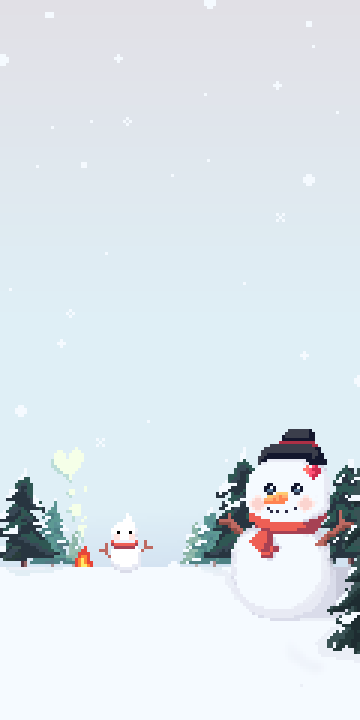
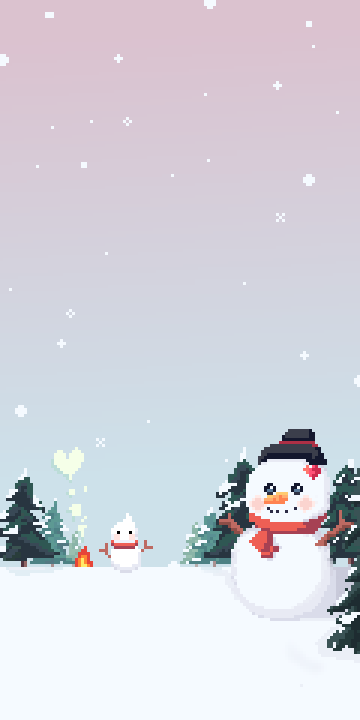
Feat: 노랑 테마(병아리) 추가
코드, 이미지 보지마세요 너무 많아용

보관함에서 테마변경하시고 잘 적용되었는지 돌아다녀주시면 됩니당
(홈, 일기장 목록, 일기장 상세 화면, 더보기 메뉴) 최소4장 찍어주세용

- 노랑 테마 적용을 위한 이미지 여러개 추가
- 일부 수정 필요한 이미지 수정
- 테마 적용되도록 일부 코드 수정

- 이전에 사용했던 일기장 틀이 있으면 슈파베이스 스토리url로 적용되고 / 없으면 현재 테마 일기장 틀이 사용됩니다
-  틀이 안보일 경우는 기존에 있던 아이템 캐시가 남아있어서 그런걸꺼라 꾸미기 단계에서 일가장 틀 바꿔주시면됩니당
- 모르겠음 부르세용

- 일기장 메뉴 4개로 변경 (삭제, 수정, 꾸미기 초기화) -> (삭제, 수정, 꾸미기 초기화, 공유)

diff --git a/frontend/src/components/layout/NavigationBar.jsx b/frontend/src/components/layout/NavigationBar.jsx
@@ -2,43 +2,44 @@ import { useNavigate, useLocation } from 'react-router-dom';
 // useNavigate: 버튼 클릭 시 페이지 이동할 때 사용하는 훅
 // useLocation: 현재 어떤 경로에 있는지 확인할 때 사용하는 훅
 // 훅 (Hook): React에서 use로 시작하는 특별한 함수, 컴포넌트 안에서만 사용 가능
-
 import { getAssetUrl } from '../../utils/AssetHelper';
+import { useTheme } from "../../store/useThemeStore"; // 테마 전역상태관리 커스텀 훅
 // 에셋 이미지 경로 헬퍼 함수
 
-// 네비게이션 탭 목록 상수 — 탭이 추가되거나 변경될 때 여기서만 수정하면 됨
-const NAVIGATION_ITEMS = [
-  {
-    id: 'home',       // 탭 고유 식별자 — key prop에 사용
-    label: '홈',      // 접근성(alt)용 텍스트
-    path: '/',        // 이동할 경로 — App.jsx의 Route path와 반드시 일치해야 함
-    iconActive: getAssetUrl('winter_light', 'icons', 'home_icon_x3'),     // 현재 선택된 탭 아이콘
-    iconInactive: getAssetUrl('winter_light', 'icons', 'home_icon_x3'), // 선택되지 않은 탭 아이콘
-  },
-  {
-    id: 'diary',
-    label: '일기',
-    path: '/diary/list',
-    iconActive: getAssetUrl('winter_light', 'icons', 'gallery_icon_x3'),
-    iconInactive: getAssetUrl('winter_light', 'icons', 'gallery_icon_x3'),
-  },
-  {
-    id: 'game',
-    label: '게임',
-    path: '/game1run',
-    iconActive: getAssetUrl('winter_light', 'icons', 'game_icon_x3'),
-    iconInactive: getAssetUrl('winter_light', 'icons', 'game_icon_x3'),
-  },
-  {
-    id: 'more',
-    label: '더보기',
-    path: '/more',
-    iconActive: getAssetUrl('winter_light', 'icons', 'menu_icon_x3'),
-    iconInactive: getAssetUrl('winter_light', 'icons', 'menu_icon_x3'),
-  },
-];
-
 export default function NavigationBar() {
+  const currentTheme = useTheme((state) => state.currentTheme);
+
+  // 네비게이션 탭 목록 상수 — 탭이 추가되거나 변경될 때 여기서만 수정하면 됨
+  const NAVIGATION_ITEMS = [
+    {
+      id: 'home',       // 탭 고유 식별자 — key prop에 사용
+      label: '홈',      // 접근성(alt)용 텍스트
+      path: '/',        // 이동할 경로 — App.jsx의 Route path와 반드시 일치해야 함
+      iconActive: getAssetUrl(currentTheme, 'icons', 'home_icon_x3'),     // 현재 선택된 탭 아이콘
+      iconInactive: getAssetUrl(currentTheme, 'icons', 'home_icon_x3'), // 선택되지 않은 탭 아이콘
+    },
+    {
+      id: 'diary',
+      label: '일기',
+      path: '/diary/list',
+      iconActive: getAssetUrl(currentTheme, 'icons', 'gallery_icon_x3'),
+      iconInactive: getAssetUrl(currentTheme, 'icons', 'gallery_icon_x3'),
+    },
+    {
+      id: 'game',
+      label: '게임',
+      path: '/game1run',
+      iconActive: getAssetUrl(currentTheme, 'icons', 'game_icon_x3'),
+      iconInactive: getAssetUrl(currentTheme, 'icons', 'game_icon_x3'),
+    },
+    {
+      id: 'more',
+      label: '더보기',
+      path: '/more',
+      iconActive: getAssetUrl(currentTheme, 'icons', 'menu_icon_x3'),
+      iconInactive: getAssetUrl(currentTheme, 'icons', 'menu_icon_x3'),
+    },
+  ];
 
   const navigate = useNavigate();
   // navigate(경로): 해당 경로로 페이지 이동
@@ -71,7 +72,7 @@ export default function NavigationBar() {
       className="absolute bottom-0 left-0 w-full z-50 grid grid-cols-4 items-center"
       style={{
         /* 1. 네비게이션바 배경 이미지 불러오기 */
-        backgroundImage: `url(${getAssetUrl('winter_light', 'boxes', 'nav_bar_box_x3')})`,
+        backgroundImage: `url(${getAssetUrl(currentTheme, 'boxes', 'nav_bar_box_x3')})`,
 
         /* 2. 비율 설정: 이미지 원본 크기(360x78) 비율을 유지하여 높이 자동 계산 
         고정값 대신 사용하여 이미지 찌그러짐 방지*/

diff --git a/frontend/src/components/more/shop/ShopItemGrid.jsx b/frontend/src/components/more/shop/ShopItemGrid.jsx
@@ -39,18 +39,15 @@ const ShopItemGrid = ({ items, onItemClick }) => {
               className="w-full h-auto block pointer-events-none"
               alt="아이템 배경"
             />
-            {/* 실제 아이템 아이콘 */}
-            {/* item.icon이 http로 시작하면 외부 URL(Supabase)로, 아니면 로컬 에셋으로 불러옴 */}
-            {/* 아이템 타입별 이미지 크기 설정 */}
-            <img
-              src={item.icon.startsWith('http') ? item.icon : getAssetUrl(currentTheme, 'icons', item.icon)}
-              className={`absolute top-[15%] left-1/2 -translate-x-1/2 h-auto z-10 pointer-events-none
-                ${item.type === 'app_theme' ? 'w-[70%]' : ''}
-                ${item.type === 'sticker' ? 'w-[50%]' : ''}
-                ${item.type === 'emoji' ? 'w-[60%]' : ''}
-              `}
-              alt={item.name}
-            />
+              {/* 실제 아이템 아이콘 */}
+              {/* item.icon이 http로 시작하면 외부 URL(Supabase)로, 아니면 로컬 에셋으로 불러옴 */}
+              {/* 아이템 타입별 이미지 크기 설정 */}
+              <div className="absolute top-[15%] h-auto z-10 pointer-events-none aspect-square w-full px-[10%] pb-[35%] flex justify-center">
+                <img
+                src={item.icon.startsWith('http') ? item.icon : getAssetUrl(currentTheme, 'icons', item.icon)}
+                alt={item.name}
+                />
+              </div>
 
             {/* 가격 정보 (코인 아이콘 + 가격 텍스트) */}
             <div className="absolute bottom-[12%] w-full flex justify-center items-center gap-[4%] z-10 pointer-events-none">

diff --git a/frontend/src/components/diary/DetailDiaryDialog.jsx b/frontend/src/components/diary/DetailDiaryDialog.jsx
@@ -363,7 +363,7 @@ const DetailDiaryDialog = ({
                         - 없음: 테마 기본 이모지 이미지 사용
                         - onError: 이미지 로드 실패 시 숨김 처리 (레이아웃 깨짐 방지)
                     */}
-          <div className="absolute h-full w-[17%] aspect-square right-[1%] pr-[5%] pointer-events-none">
+          <div className="absolute h-full w-[19%] aspect-square right-[1%] pr-[5%] pointer-events-none">
             <img
               src={emojiImageSrc}
               alt="emoji"
@@ -386,16 +386,16 @@ const DetailDiaryDialog = ({
 
             {isMenuOpen && (
               <div
-                className="absolute aspect-[99/102] mt-[5%] w-24 z-80 overflow-hidden"
+                className="absolute aspect-[99/135] mt-[5%] w-24 z-80 overflow-hidden"
                 style={{
                   backgroundImage: `url(${getAssetUrl(currentTheme, 'boxes', 'edit_delete_share_menu_box_x3')})`,
                   backgroundSize: '100% 100%',
                 }}
               >
-                <button className="mt-[2%] w-full h-[32%] font-semibold outline-none text-xs" onClick={handleEditNavigation}>수정</button>
-                <button className="w-full h-[32%] text-red-500 text-xs font-semibold outline-none" onClick={handleDeleteMenuClick}>삭제</button>
-                <button className="w-full h-[32%] text-red-500 text-2xs font-semibold outline-none" onClick={handleResetDeco}>꾸미기 초기화</button>
-                {/* <button className="w-full h-[32%]  text-xs font-semibold outline-none" onClick={handleShare}>공유</button> 나중에 공유기능 추가되면 그때 주석 해제 */}
+                <button className="mt-[2%] w-full h-[25%] font-semibold outline-none text-xs" onClick={handleEditNavigation}>수정</button>
+                <button className="w-full h-[25%] text-red-500 text-xs font-semibold outline-none" onClick={handleDeleteMenuClick}>삭제</button>
+                <button className="w-full h-[25%] text-red-500 text-2xs font-semibold outline-none" onClick={handleResetDeco}>꾸미기 초기화</button>
+                <button className="w-full h-[25%]  text-xs font-semibold outline-none" onClick={handleShare}>공유</button>
               </div>
             )}
           </div>

diff --git a/frontend/src/components/more/announcement/AnnouncementDialog.jsx b/frontend/src/components/more/announcement/AnnouncementDialog.jsx
@@ -1,5 +1,6 @@
 import { getAssetUrl } from "../../../utils/AssetHelper"
 import { useState } from "react";
+import ImageButton from "../../../components/common/ImageButton";
 
 /**
  * @typedef {Object} AnnouncementDialogProps
@@ -161,12 +162,13 @@ const AnnouncementDialog = ({ mode = 'view', title: initialTitle, content: initi
             />
 
             {/* 작성/수정 완료 버튼 */}
-            <button
+            <ImageButton
+              label={mode === 'edit' ? '수정 완료' : '작성 완료'}
               onClick={() => onSubmit({ title, content, category: category || '공지' })}
-              className="w-full h-[8%] bg-blue-900 text-white rounded-xl text-lg font-bold"
-            >
-              {mode === 'edit' ? '수정 완료' : '작성 완료'}
-            </button>
+              className="w-[100%] bottom-[3%] "
+              imageSrc={getAssetUrl(currentTheme, 'buttons', 'profile_info_patch_button_x3')}
+              textOption="text-2xl text-white"
+            />
           </>
         )}
       </div>

diff --git a/frontend/src/pages/diary/DiaryForm.jsx b/frontend/src/pages/diary/DiaryForm.jsx
@@ -2,7 +2,7 @@ import { useEffect, useRef, useState } from "react";
 import { useNavigate, useLocation } from "react-router-dom";
 import { authFetch } from "../../utils/AuthHelper";
 import { useTheme } from "../../store/useThemeStore";
-import { getAssetUrl, THEME_DEFAULT_FRAMES } from "../../utils/AssetHelper";
+import { getAssetUrl } from "../../utils/AssetHelper";
 import DiaryOptionSelector from "../../components/diary/DiaryOptionSelector";
 import ImageZoomOverlay from "../../components/diary/ImageZoomOverlay";
 import DecoPanel from "../../components/diary/DecoPanel";
@@ -61,13 +61,10 @@ export default function DiaryForm() {
 
   // ── [기본 액자 설정 및 최근 사용한 액자 기억하기 로직 ] ────────────────
   const lastUsedFrameImg = localStorage.getItem('lastUsedFrame');
-  const defaultFrame = THEME_DEFAULT_FRAMES[currentTheme] ?? { id: 20, img: 'https://zrrizmmqdgfjmnejaqkt.supabase.co/storage/v1/object/public/items/winter_light_frame_x3.png' };
 
   // 2. 초기값: 저장된 이미지가 있으면 그 ID를 쓰고, 없으면 테마 기본 ID 사용
-  const [selectedFrameId, setSelectedFrameId] = useState(defaultFrame.id);
-  const [selectedFrameImg, setSelectedFrameImg] = useState(
-    lastUsedFrameImg ?? defaultFrame.img
-  );
+  const [selectedFrameId, setSelectedFrameId] = useState(null); // id는 선택 시 세팅됨
+  const [selectedFrameImg, setSelectedFrameImg] = useState(lastUsedFrameImg ?? null); // 마지막 사용 액자 or 기본 프레임
 
   // 저장 실패 다이얼로그용 상태
   const [saveError, setSaveError] = useState(null); // null | 'duplicate' | 'unknown'

diff --git a/frontend/src/components/more/inventory/InventoryItemGrid.jsx b/frontend/src/components/more/inventory/InventoryItemGrid.jsx
@@ -38,11 +38,13 @@ const InventoryItemGrid = ({ items, selectedItemId, onItemClick }) => {
               />
 
               {/* 아이템 아이콘 */}
-              <img
-                src={getAssetUrl(currentTheme, 'icons', item.icon)}
-                className="absolute top-[15%] left-1/2 -translate-x-1/2 w-[70%] h-auto z-10 pointer-events-none"
+              <div className="absolute top-[15%] h-auto z-10 pointer-events-none aspect-square w-full px-[10%] pb-[35%] flex justify-center">
+                <img
+                src={item.icon}
                 alt={item.name}
               />
+              </div>
+              
 
               {/* 아이템 이름 */}
               <div className="absolute bottom-[10%] w-full flex justify-center items-center z-30 pointer-events-none">

diff --git a/frontend/src/components/home/Calendar.jsx b/frontend/src/components/home/Calendar.jsx
@@ -77,7 +77,7 @@ const Calendar = ({ onDateClick, onMonthChange, viewDate, currentTheme }) => {
       </div>
 
       {/*내부 데이터 레이어(배경 위에 띄우기) */}
-      <div className="absolute inset-0 flex flex-col mt-[26%] pl-[3%] pr-[9.5%]">
+      <div className="absolute inset-0 flex flex-col mt-[26%] pl-[2.5%] pr-[9.5%]">
 
         {/* 요일 헤더 1. 일요일 시작 (일 월 화 수 목 금 토) */}
         <div className="grid grid-cols-7 w-full h-[8%] text-xs text-center items-center justify-center gap-[1.5%]">
@@ -95,7 +95,7 @@ const Calendar = ({ onDateClick, onMonthChange, viewDate, currentTheme }) => {
         </div>
 
         {/* 날짜 그리드 */}
-        <div className="w-full h-[89%] grid grid-cols-7 gap-[1%] ">
+        <div className="w-full h-[88%] grid grid-cols-7 gap-[1%] ">
           {days.map((item, i) => {
             const isSunday = i % 7 === 0;                   // 일요일 여부
             const isSaturday = i % 7 === 6;                 // 토요일 여부
@@ -113,7 +113,7 @@ const Calendar = ({ onDateClick, onMonthChange, viewDate, currentTheme }) => {
                 // 이번 달 날짜만 클릭 가능하도록 핸들러 제안 (조건문)
                 onClick={() => !isNotCurrent && onDateClick(`${year}-${String(month + 1).padStart(2, '0')}-${String(item.day).padStart(2, '0')}`)}
                 className={`
-                                    aspect-[14/12] flex items-start pl-[8%] pt-[1%] justify-start text-xs
+                                    aspect-[14/12] flex items-start pl-[5%] pt-[1%] justify-start text-xs
                                     ${isNotCurrent ? 'opacity-50 grayscale' : 'cursor-pointer hover:bg-white/10'} // 이번달 아니면 흐리게 처리
                                     ${isSunday ? 'text-red-800' : isSaturday ? 'text-blue-800' : 'text-black'}
                                     ${isToday ? 'bg-blue-200/50 rounded font-bold' : ''} // 오늘 날짜 강조

diff --git a/frontend/src/utils/AssetHelper.js b/frontend/src/utils/AssetHelper.js
@@ -21,8 +21,3 @@ export const getAssetUrl = (currentThemeName, assetFolderName, fileName) => {
     return `/assets/theme/${DEFAULT_THEME_NAME}/${assetFolderName}/${fileName}.png`;
   }
 };
-
-// ── [설정] 테마별 기본 액자(프레임) 설정 ───────────────────────────────────
-export const THEME_DEFAULT_FRAMES = {
-  winter_light: { id: 20, img: 'https://zrrizmmqdgfjmnejaqkt.supabase.co/storage/v1/object/public/items/winter_light_frame_x3.png' }, // 겨울 테마일 때 기본 액자
-};

diff --git a/frontend/src/pages/home/Home.jsx b/frontend/src/pages/home/Home.jsx
@@ -143,7 +143,9 @@ export default function Home() {
 
       {/* 우측 하단 플로팅 버튼 (오늘 날짜로 일기 작성) */}
       <div className="absolute bottom-[12%] right-[5%]">
-        <FloatingActionButton onClick={handleFabClick} />
+        <FloatingActionButton 
+          currentTheme={currentTheme}
+          onClick={handleFabClick} />
       </div>
 
       {/* 출석 다이얼로그 */}

diff --git a/frontend/src/pages/more/inventory/Inventory.jsx b/frontend/src/pages/more/inventory/Inventory.jsx
@@ -17,7 +17,8 @@ const TABS = ["모두", "스티커", "이모티콘", "테마"];
 
 // 보관함 더미 데이터
 const MOCK_INVENTORY = [
-  { id: 1, name: "겨울테마", icon: "home_icon_x3", type: "테마", themeKey: "winter_light" },
+  { id: 1, name: "겨울테마", icon: "https://zrrizmmqdgfjmnejaqkt.supabase.co/storage/v1/object/public/items/winter_theme_icon_x3.png", type: "테마", themeKey: "winter_light" },
+  { id: 2, name: "노랑테마", icon: "https://zrrizmmqdgfjmnejaqkt.supabase.co/storage/v1/object/public/items/yellow_theme_icon_x3.png", type: "테마", themeKey: "yellow_light" },
 ];
 
 const Inventory = () => {

diff --git a/frontend/src/components/more/profile/ProfileBar.jsx b/frontend/src/components/more/profile/ProfileBar.jsx
@@ -35,7 +35,7 @@ const ProfileBar = ({ nickname, email, profileImage }) => {
 
         {/* 배경 이미지에 올라가는 사용자 프로필 사진*/}
         <img
-          src={profileImage || getAssetUrl(currentTheme, 'icons', 'app_icon_x2')}
+          src={profileImage || getAssetUrl(currentTheme, 'icons', 'app_icon_32_x3')}
           alt="프로필 사진"
           className="absolute left-[3.7%] top-[43.5%] -translate-y-1/2 w-[21.5%] aspect-square object-cover pointer-events-none"
         />

diff --git a/frontend/src/pages/more/profile/Profile.jsx b/frontend/src/pages/more/profile/Profile.jsx
@@ -93,7 +93,7 @@ const Profile = () => {
         {/* 클릭하면 파일 선택창 열리도록 */}
         <label htmlFor="profileImageInput" className="absolute w-full aspect-square z-20 block cursor-pointer overflow-hidden">
           <img
-            src={profileImage || getAssetUrl(currentTheme, 'icons', 'app_icon_x2')}
+            src={profileImage || getAssetUrl(currentTheme, 'icons', 'app_icon_32_x3')}
             alt="프로필 사진"
             className="w-full h-full object-cover cursor-pointer"
           />